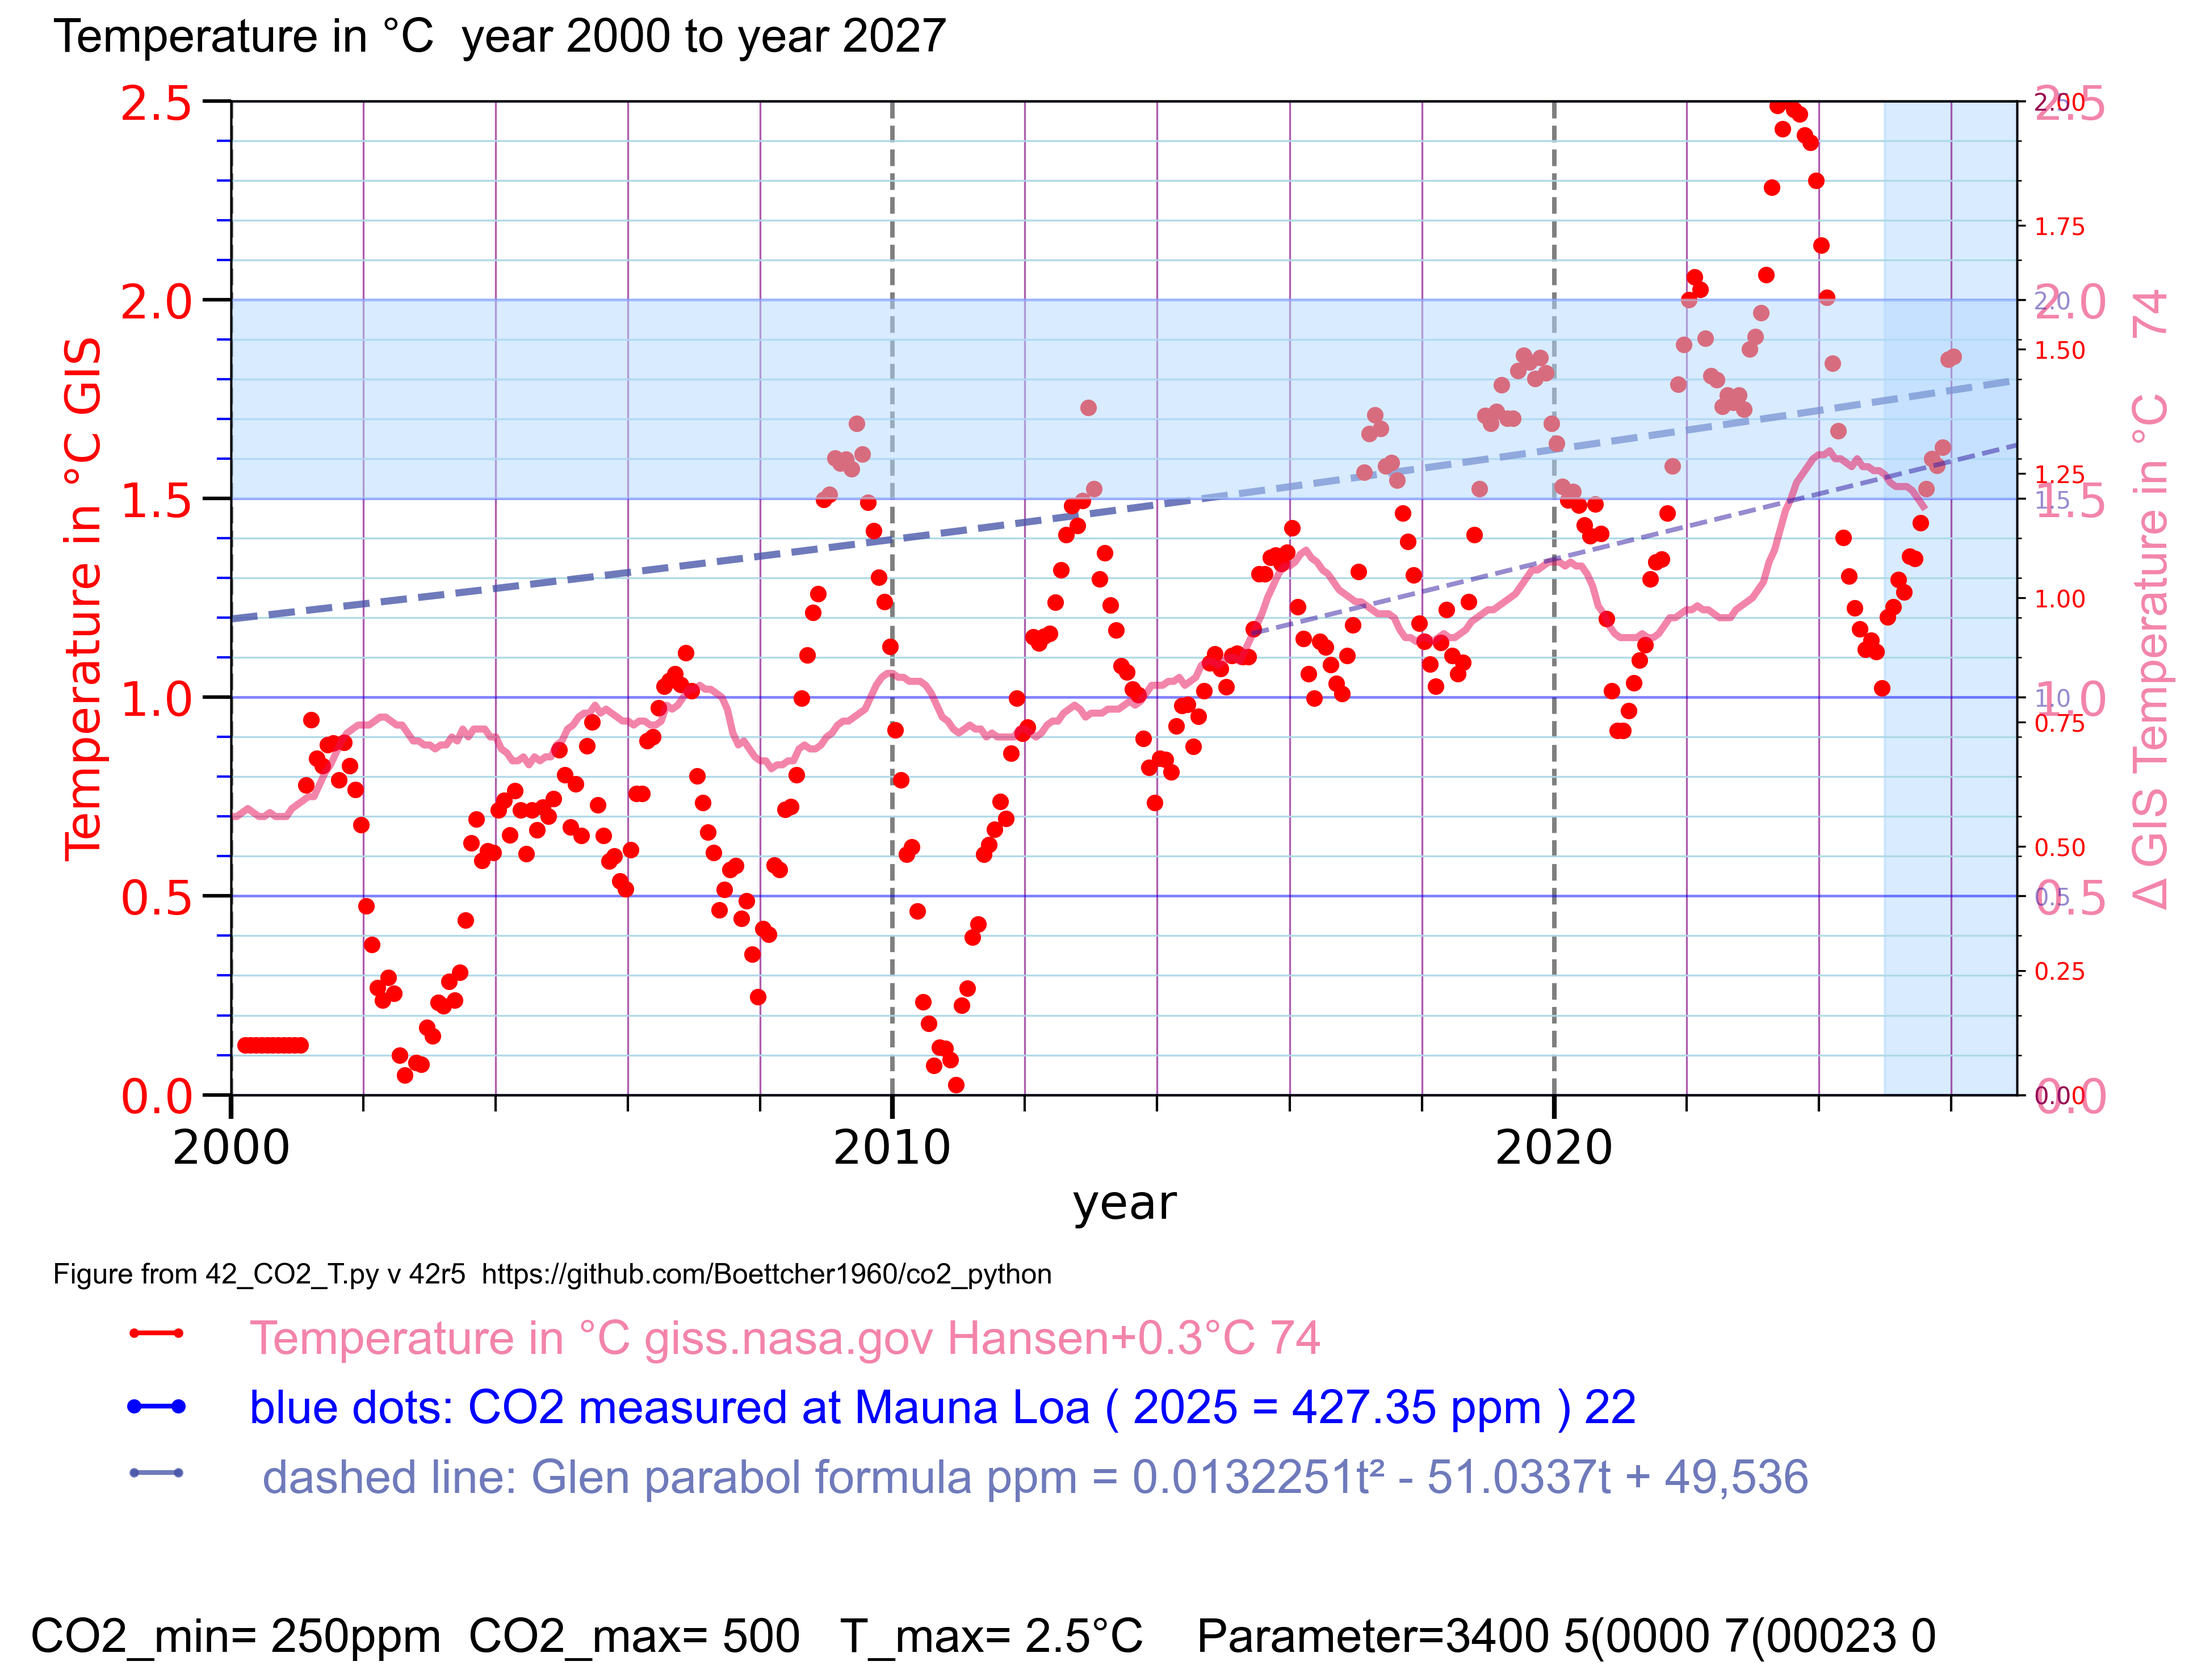
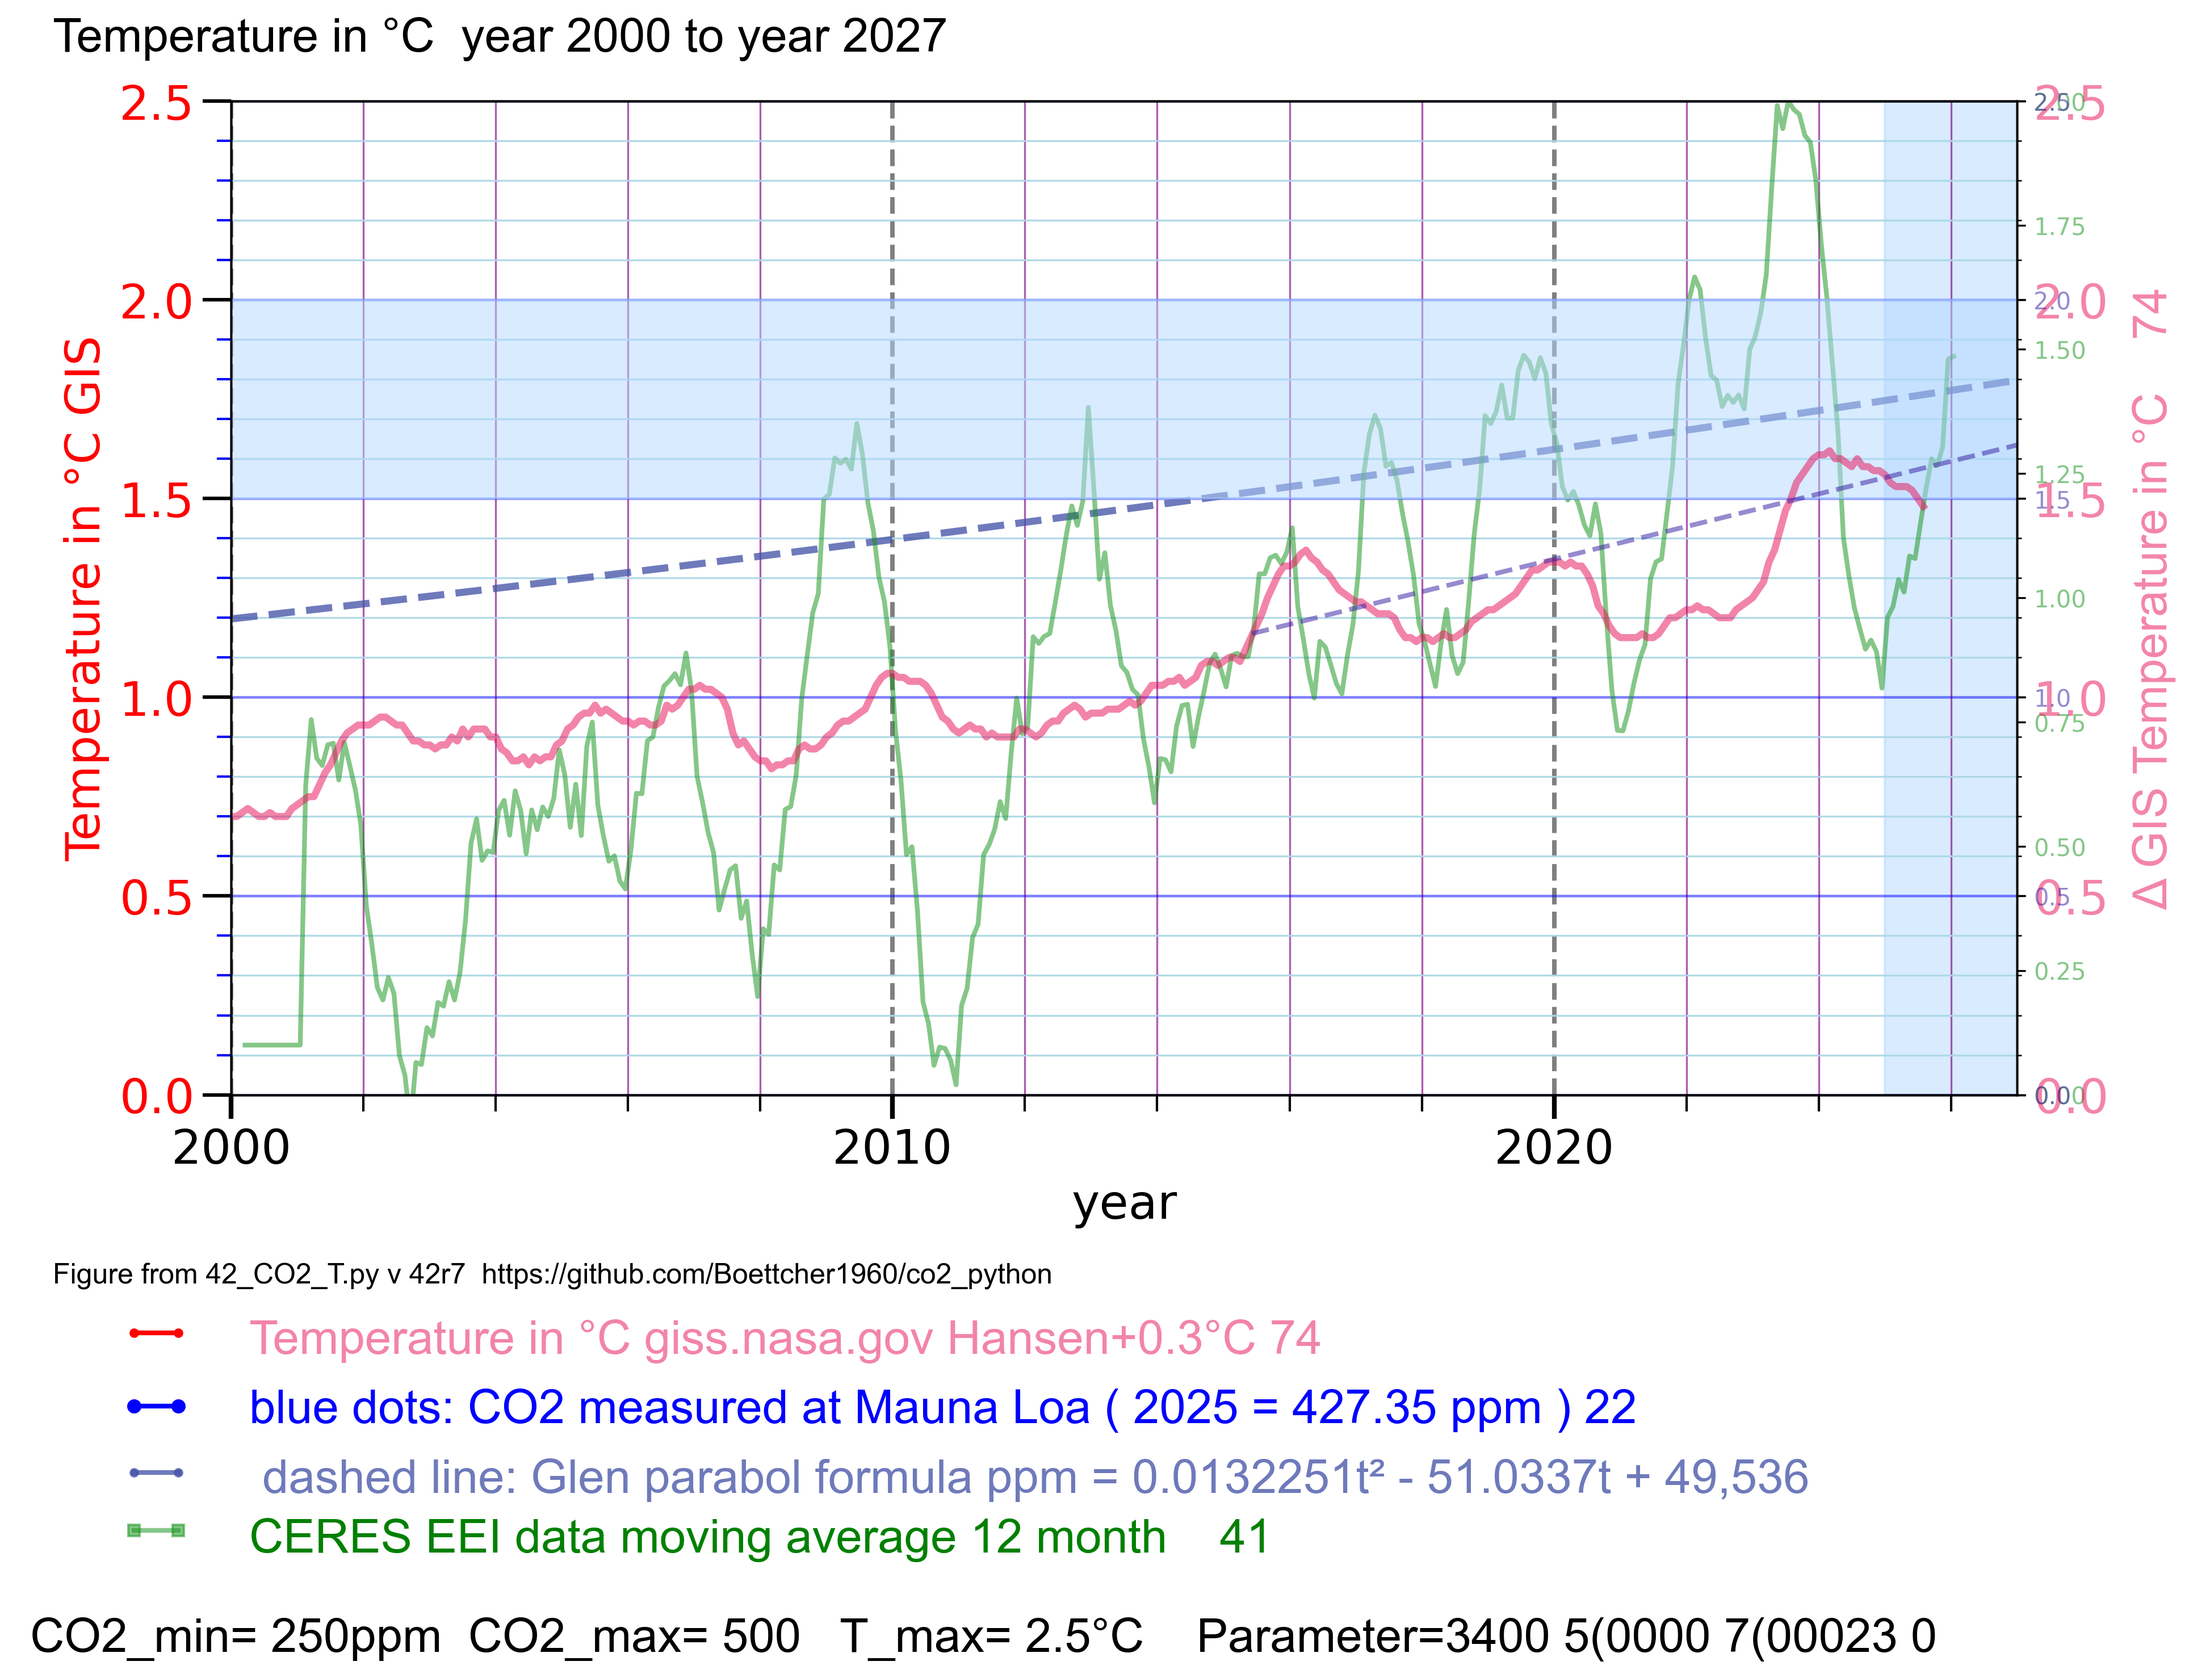
v = "42r7" #  CERES data if stored in csv41g_ceres.csv

diff --git a/42_CO2_T.py b/42_CO2_T.py
@@ -1,5 +1,5 @@
 # 42_CO2_T.py 
-v = "42r6" #  CERES data if stored in csv41g_ceres.csv
+v = "42r7" #  CERES data if stored in csv41g_ceres.csv
 # Thomas Boettcher
 # part 1 configure 
 # part 2.2 plot CO2 Mauna Loa
@@ -453,57 +453,8 @@ def convert_ceres_to_csv(input_file, output_file):
     print(df.head(10))
     
     return df
-
-
-
-
-
-def convert_ceres_to_csv1(input_file, output_file):
-    """
-    Convert CERES TOA flux ASCII file to CSV format
-    Parameters:
-    input_file (str): Path to input ASCII file
-    output_file (str): Path to output CSV file
-    """
-    # 4.1.1 Read the data
-    data = []
-    with open(input_file, 'r') as f:
-        lines = f.readlines()
-        # Skip header lines (lines starting with # or empty lines)
-        for line in lines:
-            line = line.strip()
-            if not line or line.startswith('#') or line.startswith('CERES'):
-                continue
-            # Parse each data line
-            parts = line.split()
-            if len(parts) >= 3:
-                try:
-                    year = int(parts[0])
-                    month = int(parts[1])
-                    flux = float(parts[2])
-                    data.append([year, month, flux])
-                except ValueError:
-                    # Skip lines that don't parse correctly
-                    continue
-    # 4.1.2 Create DataFrame
-    df = pd.DataFrame(data, columns=['year', 'month', 'toa_net_flux_w_m2'])
-    # 4.1.3 Add date column for easier analysis
-    df['date'] = pd.to_datetime(df['year'].astype(str) + '-' + df['month'].astype(str) + '-01')
-    # 4.1.4 Reorder columns
-    df = df[['date', 'year', 'month', 'toa_net_flux_w_m2']]
-    # 4.1.5 Save to CSV
-    df.to_csv(output_file, index=False)
-    print(f"part 4.1.1 Successfully converted {len(df)} records to {output_file}")
-    print(f"Data range: {df['date'].min()} to {df['date'].max()}")
-    print(f"Flux range: {df['toa_net_flux_w_m2'].min():.2f} to {df['toa_net_flux_w_m2'].max():.2f} W/m²")
-    return df
     # end 4.1.5 CERES function 1
     # add column 5 as decimal year 2000.08  2000.16
-
-
-
-
-
 
 
 # 4.1.6 CERES function 2
@@ -578,14 +529,15 @@ if part41_ceres_eei == 12:
 
 # 4.3
 if part41_ceres_eei == 5:
-   print41_text ="CERES EEI data moving average 12 month    41"
+   p41_text ="CERES EEI data moving average 12 month    41"
    df41 = pd.read_csv("csv/csv41/csv41g_ceres.csv") # 
-   print(df41.head(22))
+   # print(df41.head(22))
    ax41 = ax1.twinx()  # twinx(): Shares the same x-axis Adds a new y-axis on the right
    # part 7.4.6 add 0.3°C same as Hansen to GIS
    ax41.plot(df41["year41"], df41["EEI"], '-', label="EEI  K41", color=c41, linewidth=2)
    ax41.tick_params(axis="y", labelcolor=c41)
    ax41.set_ylim(0, 2) # scale
+   # end 4.3
 
 
 # -----------------------------
@@ -1564,7 +1516,16 @@ elif linear_41_75 == 4:
 
 
 # 9.5.2 print line 5 plot55_population_on marker="s"
-if plot55_population_on == 5: #  legende world data plot22_CO2_Mauna_Loa
+if part41_ceres_eei == 5: #  legende world data plot22_CO2_Mauna_Loa
+   line41 = Line2D([lr2x1, lr2x2], [lr5y, lr5y], # x coords in figure space (0–1)
+   transform=fig.transFigure,
+   marker="s", markersize=5, color=c41, linewidth=2)
+   # 9.5.2 draw bue line as legend
+   fig.add_artist(line41)
+   # 9.5.4 write green text
+   plt.text(tr2x, tr5y, p41_text, color="green", fontname="Arial", fontsize=trs,
+   transform=plt.gca().transAxes)
+elif plot55_population_on == 5: #  legende world data plot22_CO2_Mauna_Loa
    line55 = Line2D([lr2x1, lr2x2], [lr5y, lr5y], # x coords in figure space (0–1)
    transform=fig.transFigure,
    marker="s", markersize=5, color="green", linewidth=2)
